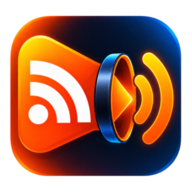
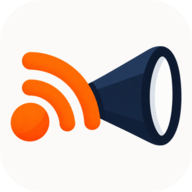
Recut the brand assets from the new artwork
The logo and icon were redrawn — flat vector shapes in place of the shaded
badge, and a wider wordmark — so every derived file is cut again from the new
originals. Paths and markup are unchanged; this is the same set, redrawn.

The colours swapped sides. Previously "Amplifier" was the near-black half and
"RSS" the orange one; now it is the other way round, and the megaphone is dark
too. That does not change the problem — half the wordmark still vanishes against
the dark palette — so the light-on-dark variant is derived again, by lifting
only the near-black pixels through a luminance mask and leaving the orange
alone. The comment naming which half is dark is corrected to match.

The wordmark is 646x96 rather than 532x96, so the intrinsic dimensions on the
tag move with it; they are what stops the nav jumping while the file loads, and
a stale pair would reserve the wrong box.

The icon needed more of a change. The old art was a self-contained badge with
its own background, so it could be cut straight to size; the new mark is bare
shapes on transparency, and its dark megaphone would sit unreadable against a
dark tab strip. So the icons get an explicit ground: the site's own background
colour, rounded for the browser and the install, full-bleed with the art inside
the safe zone for Android's maskable crop, and square for iOS, which rounds the
corners itself.

The service worker version goes to v3. The filenames do not change when the art
[…]

diff --git a/apps/web/src/app/layout.jsx b/apps/web/src/app/layout.jsx
@@ -130,15 +130,15 @@ export default function RootLayout({ children }) {
                 are the intrinsic pixels, so the strip reserves its space before
                 the file lands and the nav below it never jumps. */}
             <a className="wordmark" href="/">
-              {/* Two files rather than one, because the logo's "Amplifier" half
-                  is near-black and disappears into the dark palette. <picture>
-                  rather than a CSS filter so each version keeps its own colour,
-                  and rather than two <img>s so only the matching one is ever
-                  fetched. The alt lives on the <img>, which is the element that
-                  actually renders either way. */}
+              {/* Two files rather than one, because the logo's "RSS" half and
+                  the megaphone are near-black and disappear into the dark
+                  palette. <picture> rather than a CSS filter so each version
+                  keeps its own colour, and rather than two <img>s so only the
+                  matching one is ever fetched. The alt lives on the <img>, which
+                  is the element that actually renders either way. */}
               <picture>
                 <source srcSet="/logo-dark.png" media="(prefers-color-scheme: dark)" />
-                <img src="/logo.png" alt="RSS Amplifier" width="532" height="96" />
+                <img src="/logo.png" alt="RSS Amplifier" width="646" height="96" />
               </picture>
             </a>
 

diff --git a/apps/web/public/sw.js b/apps/web/public/sw.js
@@ -13,9 +13,10 @@
  */
 
 // Bumped with the brand assets: the activate handler drops every cache that is
-// not this version, which is what evicts the old SVG icon and the manifest that
-// pointed at it from clients that already installed them.
-const VERSION = 'v2';
+// not this version, which is what evicts the previous artwork from clients that
+// already installed it. The filenames do not change when the art does, so
+// without the bump an installed app keeps serving the logo it cached.
+const VERSION = 'v3';
 const SHELL = `shell-${VERSION}`;
 const ASSETS = `assets-${VERSION}`;
 
